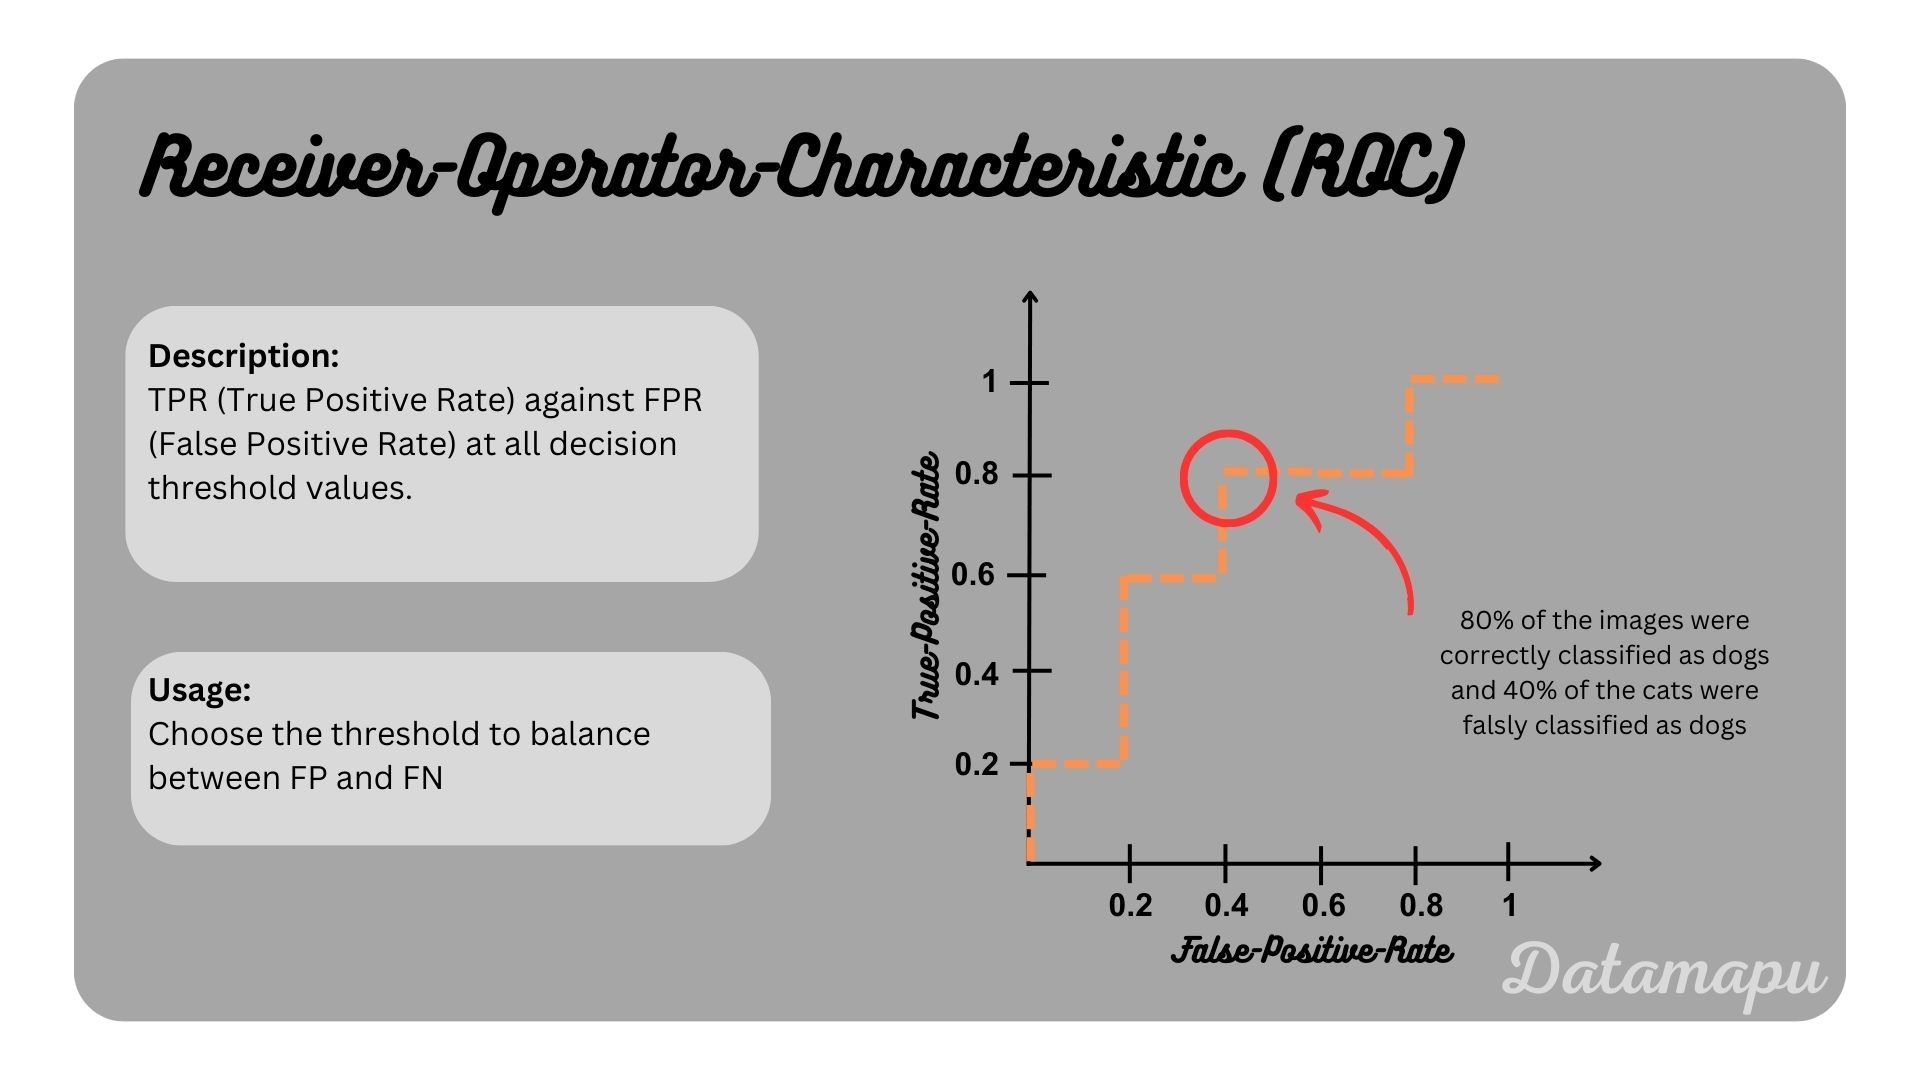
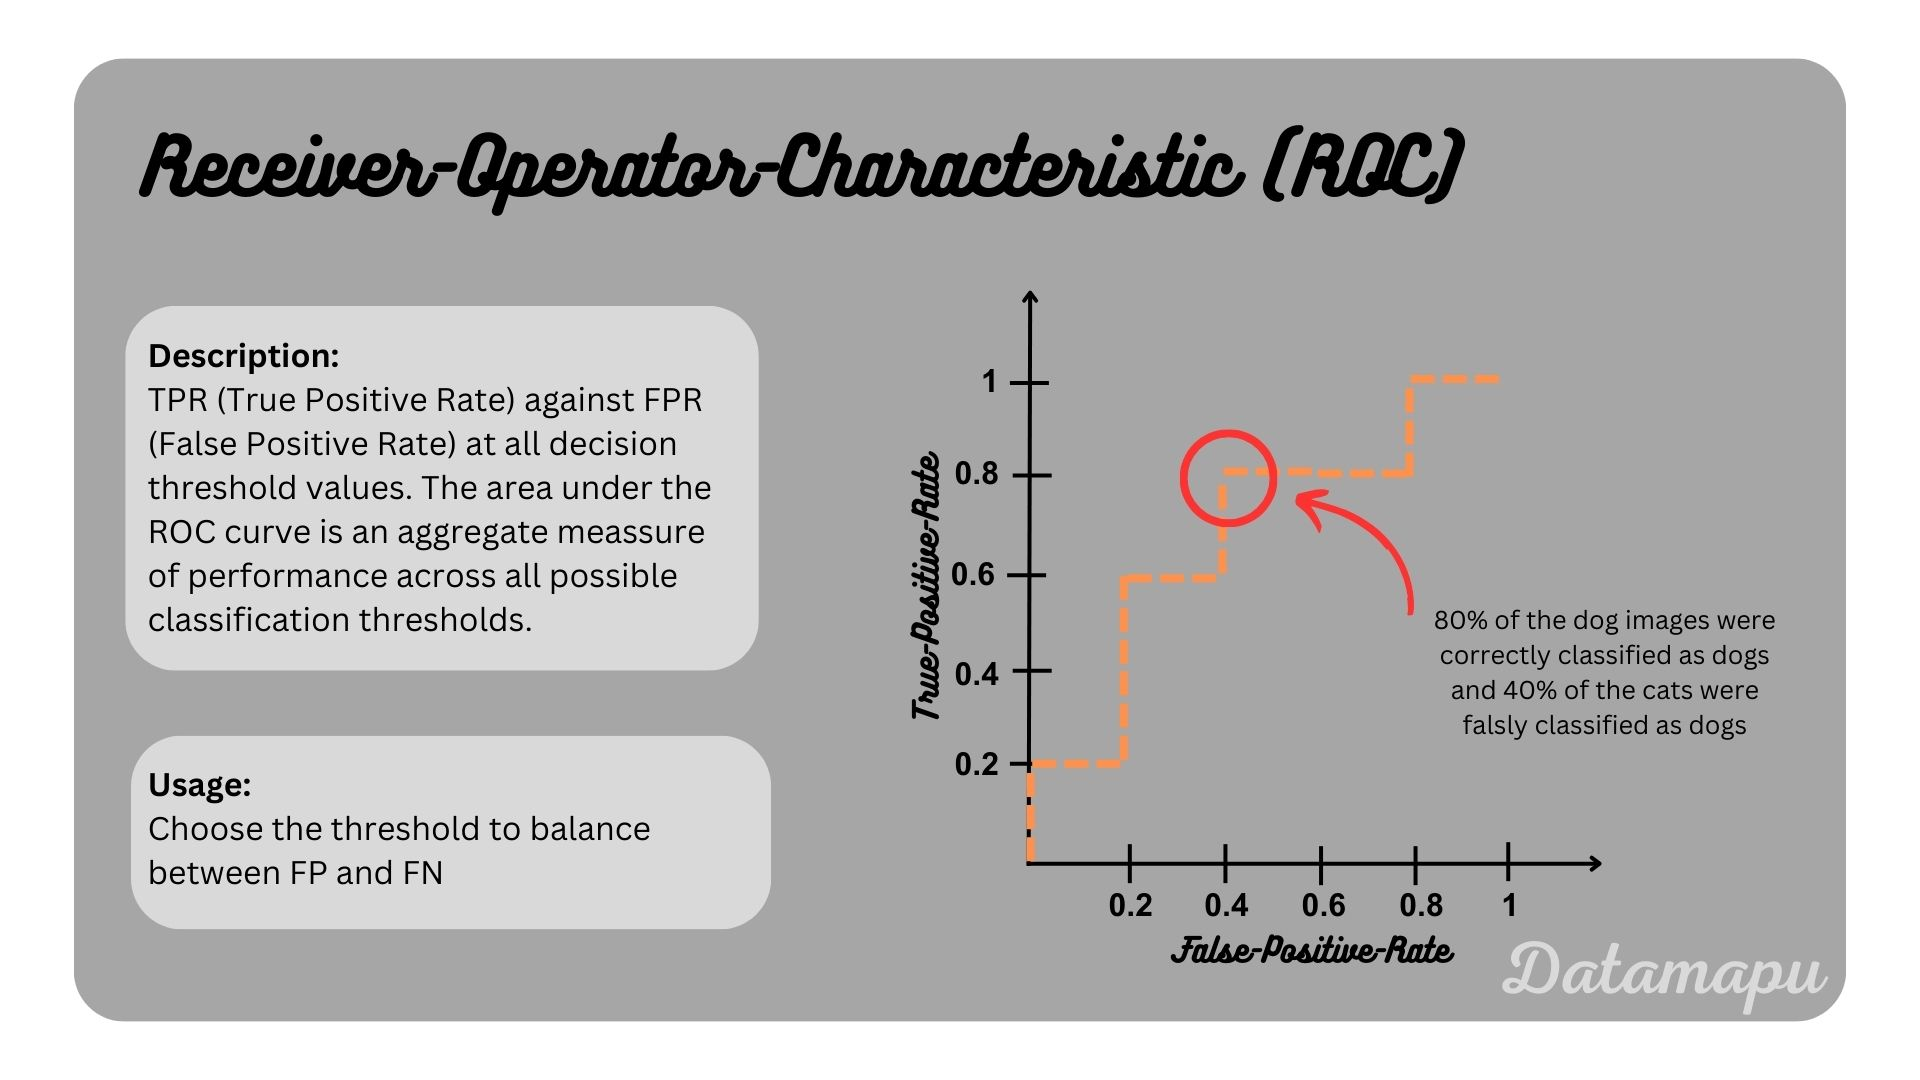
calssification

Changed region(s): [[0.0625, 0.4278, 0.4062, 0.8861], [0.75, 0.55, 0.9062, 0.5806]]

diff --git a/content/posts/2023/20230920_classification_metrics.md b/content/posts/2023/20230920_classification_metrics.md
@@ -1,7 +1,7 @@
 +++
 title = 'Metrics for Classification Problems'
-date = 2023-09-20T00:08:49+02:00
-draft = true
+date = 2023-10-01T00:08:49+02:00
+draft = false
 featured_image = '/images/20230920_classification_metrics/classification_metrics.gif'
 tags = [ "Data Science", "Classification", "Metrics"]
 categories = [ "Data Science" ]
@@ -63,18 +63,34 @@ With the above concepts of TP, FN, FP, and TN we can define several metrics that
 ![f_beta_score](/images/20230920_classification_metrics/fbetascore.jpg "f-beta-score.")
 ![FPR](/images/20230920_classification_metrics/false_positive_rate.jpg "f-beta-score")
 
-To classify into positive and negative predictions, we need to define a threshold. Predictions below this threshold are classified as 0 (cat) and predictions above are clssified as 1 (dog). By default this value is 0.5, but we can change it. when we change the theshold, the number of TP, FN, FP, and TN change and with that the above defined metrics. When we compare Recall (True-Positive-Rate) and False-Positive-Rate for different thresholds and plot their values against each other, we get the **Receiver-Operator-Characteristics (ROC) Curve**. The ROC-Curve can help us to fnd a suited threshold for our task.
+### Classification Threshold
+
+To classify into positive and negative predictions, we need to define a threshold. Predictions below this threshold are classified as 0 (cat) and predictions above are classified as 1 (dog). By default this value is 0.5, but we can change it. When we change the threshold, the number of TP, FN, FP, and TN change and with that the above defined metrics. In the following image five different thresholds are illustrated for our example of classifying dog and cat images. The resulting change in Recall / True-Positive-Rate (TPR) and False-Positive-Rate (FPR) is shown.
+
+![TPR_FPR](/images/20230920_classification_metrics/tpr_fpr.gif "TPR-FPR.")
+*The change of Recall / True-Positive-Rate (TPR) and False-Positive-Rate (FPR) with the change of the classification threshold.*
+
+When we compare Recall / True-Positive-Rate and False-Positive-Rate for different thresholds and plot their values against each other, we get the **Receiver-Operator-Characteristics (ROC) Curve**. The ROC-Curve can help us to fnd a suited threshold for our task.
 
 ![ROC](/images/20230920_classification_metrics/roc.jpg "ROC.")
 
-Using the ROC curve we can compare different classifiers. The higher the curve, the better a classifier. If the ROC curve would be the diagonal, this would equal the classifer to make random guesses. The **Area Under the Curve (AUC)** is used to meassure this value. It lies between 0 and 1. The closer it is to 1, the better the classifier. In the case of the diagonal, the AUC would equal 0.5.
+Using the ROC curve we can compare different classifiers. The higher the curve, the better a classifier. If the ROC curve was the diagonal, this would equal the classifer to make random guesses. The **Area Under the Curve (AUC)** is used to meassure this value. It lies between 0 and 1. The closer it is to 1, the better the classifier. In the case of the diagonal, the AUC would equal 0.5.
+
 
 ![AUC](/images/20230920_classification_metrics/auc.jpg "AUC.")
 
+### Example
 
-Note: These metrics can be extended for multi-class classification. An overview can be found in this [blog](https://medium.com/r/?url=https%3A%2F%2Fwww.analyticsvidhya.com%2Fblog%2F2021%2F07%2Fmetrics-to-evaluate-your-classification-model-to-take-the-right-decisions%2F).
+In Python you can calculate all these metrics - for binary and multiple classification - using the [sklearn metrics module](https://scikit-learn.org/stable/modules/model_evaluation.html), e.g. accuracy can be calculated as follows:
 
-### Further Reading
+```
+from sklearn.metrics import accuracy_score
+acc = accuracy_score(y_true, y_pred)
+```
 
-* https://developers.google.com/machine-learning/crash-course/classification/roc-and-auc
-* https://www.analyticsvidhya.com/blog/2021/07/metrics-to-evaluate-your-classification-model-to-take-the-right-decisions/
+For the above example of classifying cat and dog images, we achieve an accuracy of 6/10 = 0.6, because 6 images (4 dogs and 2 cats) out of 10 are correctly classified.
+
+### Summary
+
+Binary classification is a specific case of classification problems, where the data is divided into two classes. Depending on the focus of the project the classifier can be optimized towards specific metrics. The above defined metrics are the most common metrics for binary classification. If none of these suite your purpose you can of course define your own custom metric to evaluate your classifier. Further the threshold towards the data is classified can be changed in order to optimize towards a certain metric. All the above defined metrics can be generalized for multiple classification.
+

diff --git a/content/posts/2023/20231001_regression_metrics.md b/content/posts/2023/20231001_regression_metrics.md
@@ -1,0 +1,11 @@
++++
+title = '20231001_regression_metrics'
+date = 2023-09-30T21:24:12+02:00
+draft = true
+featured_image = '/images/20231001_regression_metrics/regression_metrics.gif'
+tags = [ "Data Science", "Regression", "Metrics"]
+categories = [ "Data Science" ]
+
++++
+
+https://scikit-learn.org/stable/modules/model_evaluation.html
